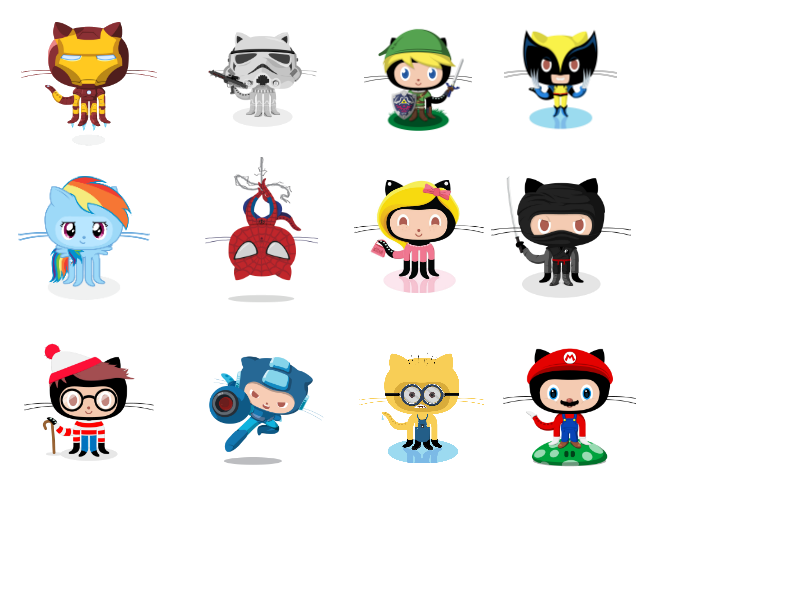
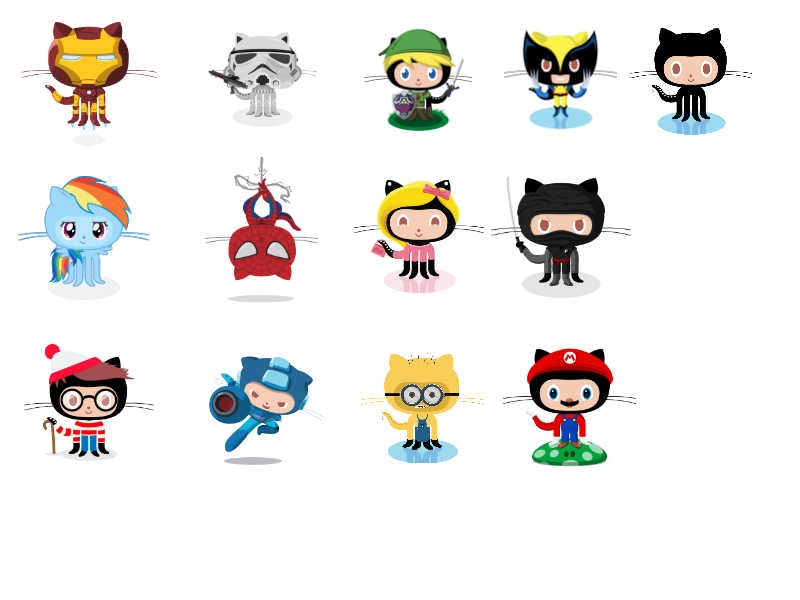
Ben: phasing out wolverine on the top of the cards, now he's a possible match

Changed region(s): [[0.8125, 0.03, 0.9062, 0.24]]

diff --git a/index.html b/index.html
@@ -31,7 +31,7 @@
 			<div class="flipper">
 				<span class="imageId">1</span>
 				<div class="front card">
-					<div class="image wolverine">
+					<div class="image octocat">
 					</div>
 				</div>
 				<div class="back card">
@@ -46,7 +46,7 @@
 			<div class="flipper">
 				<span class="imageId">1</span>
 				<div class="front card">
-					<div class="image wolverine">
+					<div class="image octocat">
 					</div>
 				</div>
 				<div class="back card">
@@ -61,7 +61,7 @@
 			<div class="flipper">
 				<span class="imageId">2</span>
 				<div class="front card">
-					<div class="image wolverine">
+					<div class="image octocat">
 					</div>
 				</div>
 				<div class="back">
@@ -76,7 +76,7 @@
 			<div class="flipper">
 				<span class="imageId">2</span>
 				<div class="front card">
-					<div class="image wolverine">
+					<div class="image octocat">
 					</div>
 				</div>
 				<div class="back">
@@ -93,7 +93,7 @@
 			<div class="flipper">
 				<span class="imageId">3</span>
 				<div class="front card">
-					<div class="image wolverine">
+					<div class="image octocat">
 					</div>
 				</div>
 				<div class="back">
@@ -108,7 +108,7 @@
 			<div class="flipper">
 				<span class="imageId">3</span>
 				<div class="front card">
-					<div class="image wolverine">
+					<div class="image octocat">
 					</div>
 				</div>
 				<div class="back">
@@ -123,7 +123,7 @@
 			<div class="flipper">
 				<span class="imageId">4</span>
 				<div class="front card">
-					<div class="image wolverine">
+					<div class="image octocat">
 					</div>
 				</div>
 				<div class="back">
@@ -138,7 +138,7 @@
 			<div class="flipper">
 				<span class="imageId">4</span>
 				<div class="front card">
-					<div class="image wolverine">
+					<div class="image octocat">
 					</div>
 				</div>
 				<div class="back">
@@ -155,7 +155,7 @@
 			<div class="flipper">
 				<span class="imageId">5</span>
 				<div class="front card">
-					<div class="image wolverine">
+					<div class="image octocat">
 					</div>
 				</div>
 				<div class="back">
@@ -170,7 +170,7 @@
 			<div class="flipper">
 				<span class="imageId">5</span>
 				<div class="front card">
-					<div class="image wolverine">
+					<div class="image octocat">
 					</div>
 				</div>
 				<div class="back">
@@ -185,7 +185,7 @@
 			<div class="flipper">
 				<span class="imageId">6</span>
 				<div class="front card">
-					<div class="image wolverine">
+					<div class="image octocat">
 					</div>
 				</div>
 				<div class="back">
@@ -200,7 +200,7 @@
 			<div class="flipper">
 				<span class="imageId">6</span>
 				<div class="front card">
-					<div class="image wolverine">
+					<div class="image octocat">
 					</div>
 				</div>
 				<div class="back">
@@ -217,7 +217,7 @@
 			<div class="flipper">
 				<span class="imageId">7</span>
 				<div class="front card">
-					<div class="image wolverine">
+					<div class="image octocat">
 					</div>
 				</div>
 				<div class="back">
@@ -232,7 +232,7 @@
 			<div class="flipper">
 				<span class="imageId">7</span>
 				<div class="front card">
-					<div class="image wolverine">
+					<div class="image octocat">
 					</div>
 				</div>
 				<div class="back">
@@ -247,7 +247,7 @@
 			<div class="flipper">
 				<span class="imageId">8</span>
 				<div class="front card">
-					<div class="image wolverine">
+					<div class="image octocat">
 					</div>
 				</div>
 				<div class="back">
@@ -262,7 +262,7 @@
 			<div class="flipper">
 				<span class="imageId">8</span>
 				<div class="front card">
-					<div class="image wolverine">
+					<div class="image octocat">
 					</div>
 				</div>
 				<div class="back">

diff --git a/css/sprites.css b/css/sprites.css
@@ -63,3 +63,9 @@
 	width: 140px;
 	height: 122px;
 }
+
+.octocat {
+	background: url('../images/catsheet.png') no-repeat -630px -28px;
+	width: 122px;
+	height: 107px;
+}

diff --git a/js/matching.js b/js/matching.js
@@ -7,9 +7,7 @@ var imageMap = {
 	6:'mario',
 	7:'link',
 	8:'scarlet',
-	/*
 	9:'wolverine',
-	*/
 	10:'trooper',
 	11:'ninja',
 }
